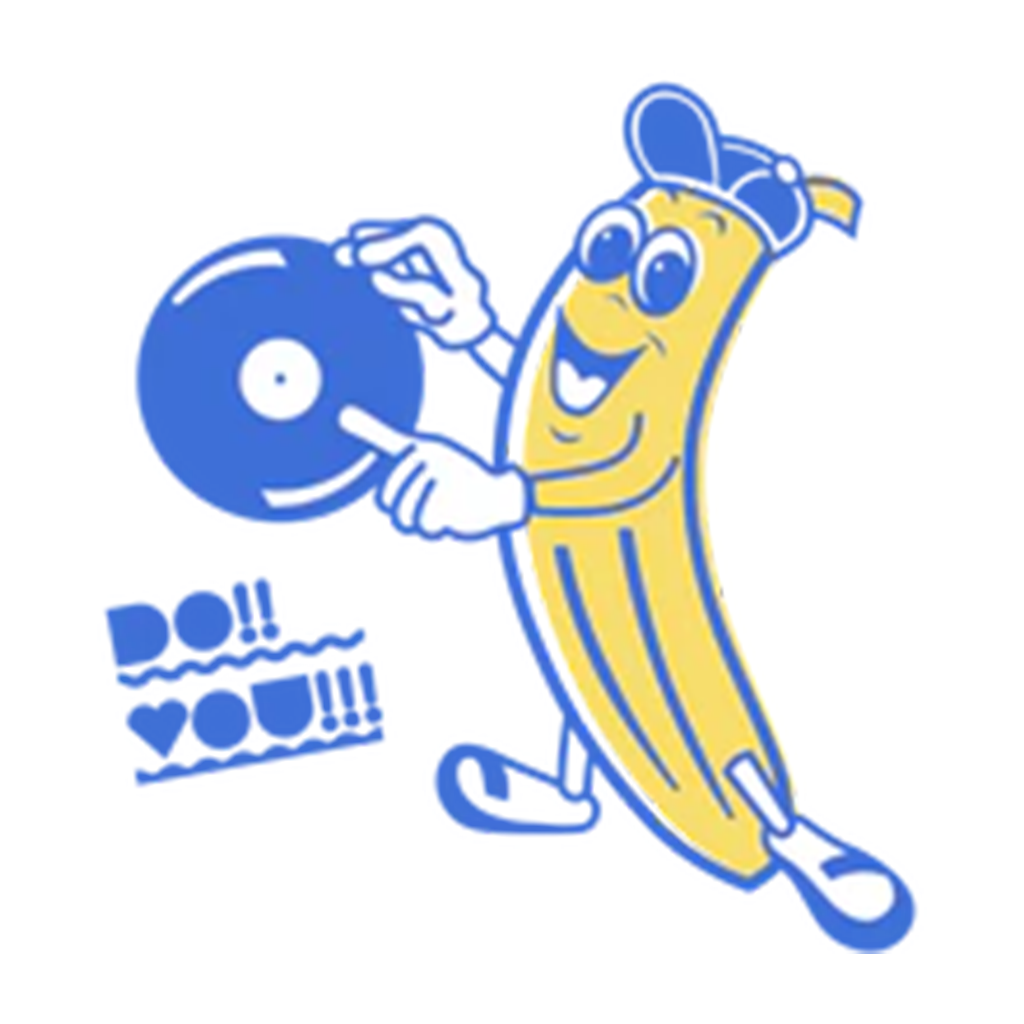
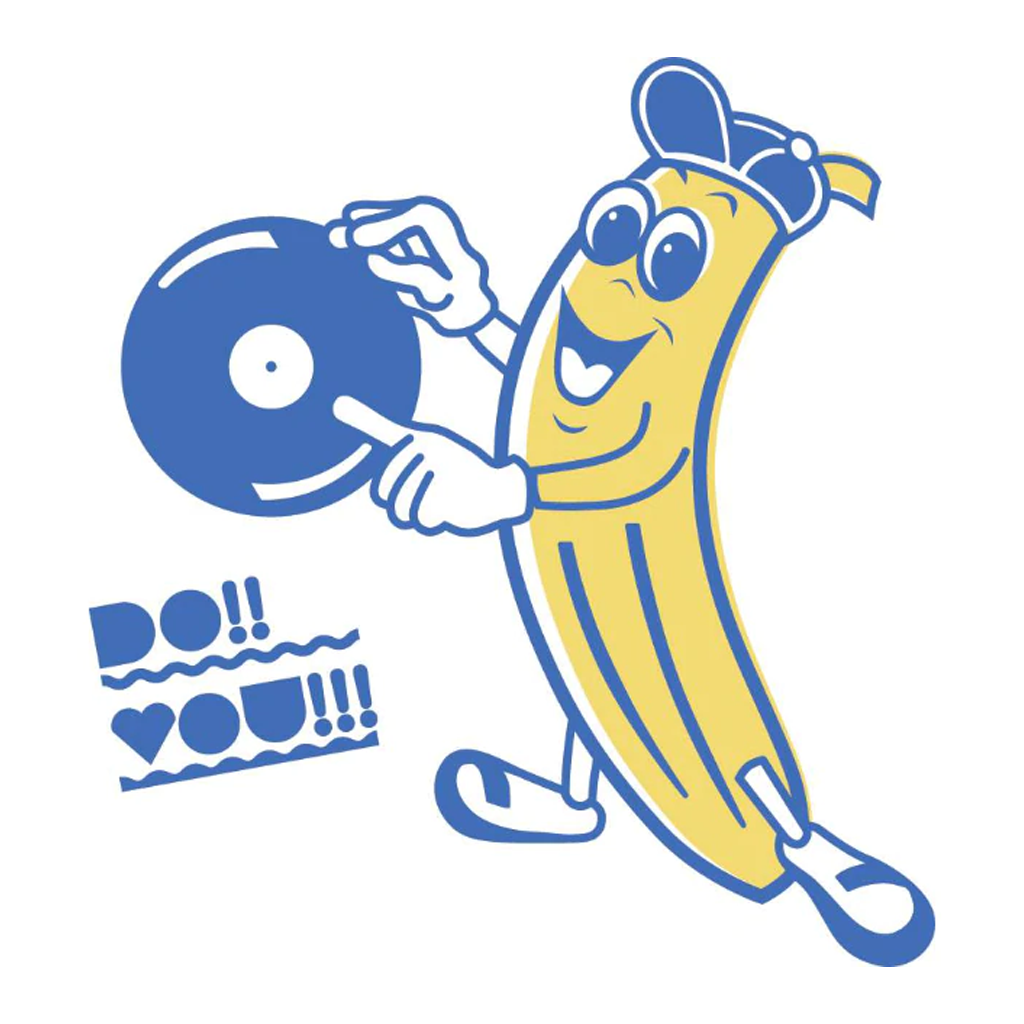
MoreScreen added, optimised assets added

Changed region(s): [[0.0938, 0.0312, 0.9375, 0.9688], [0.0625, 0.5625, 0.375, 0.7812]]

diff --git a/src/screens/MoreScreen.tsx b/src/screens/MoreScreen.tsx
@@ -1,0 +1,41 @@
+import React from 'react'
+import { Linking } from 'react-native'
+import { RootTabScreenProps } from '../../types'
+import { Container } from '../components/Container/Container'
+import { Home } from '../components/Home/Home'
+import { Text } from '../components/Themed'
+
+export default function MoreScreen({ navigation }: RootTabScreenProps<'More'>) {
+  return (
+    <Home>
+      <Container>
+        <Text
+          style={{
+            fontSize: 16,
+            fontFamily: 'Lato_900Black',
+            marginBottom: 20,
+          }}
+        >
+          Credits
+        </Text>
+        <Text style={{ marginBottom: 10 }}>
+          - Out to Charlie Bones for giving us the{' '}
+          <Text style={{ fontStyle: 'italic' }}>perfect sound forever</Text> and
+          making the radio world a better place.
+        </Text>
+        <Text>
+          - Out to{' '}
+          <Text
+            style={{ textDecorationLine: 'underline' }}
+            onPress={() =>
+              Linking.openURL('https://github.com/Rassibassi/doyoutrackid')
+            }
+          >
+            Rassibassi X Erin Rimmer X jackhkmatthews
+          </Text>{' '}
+          for generating track IDs.
+        </Text>
+      </Container>
+    </Home>
+  )
+}

diff --git a/src/components/Player/Player.tsx b/src/components/Player/Player.tsx
@@ -14,6 +14,7 @@ import {
 import { PlayerIcons } from './Player.constants'
 import { Audio } from 'expo-av'
 import { LIVE_STREAM_URL } from '../../constants/Endpoints'
+import { View } from '../Themed'
 
 export const Player: React.FC<{ background: string }> = ({ background }) => {
   const dispatch = useDispatch()
@@ -87,15 +88,25 @@ export const Player: React.FC<{ background: string }> = ({ background }) => {
     >
       <TouchableHighlight underlayColor="transparent" onPress={onPress}>
         <ImageBackground
-          source={require('../../../assets/images/logo.webp')}
+          source={require('../../../assets/images/doyou.webp')}
           style={{
             width: '100%',
             height: '100%',
             display: 'flex',
+            position: 'relative',
             alignItems: 'center',
             justifyContent: 'center',
           }}
         >
+          <View
+            style={{
+              width: 50,
+              height: 50,
+              borderRadius: 50,
+              backgroundColor: 'white',
+              position: 'absolute',
+            }}
+          />
           <MaterialCommunityIcons
             name={PlayerIcons[status]}
             size={80}

diff --git a/src/navigation/index.tsx b/src/navigation/index.tsx
@@ -28,6 +28,7 @@ import {
   RootTabScreenProps,
 } from '../../types'
 import LinkingConfiguration from './LinkingConfiguration'
+import MoreScreen from '../screens/MoreScreen'
 
 export default function Navigation({
   colorScheme,
@@ -130,6 +131,18 @@ function BottomTabNavigator() {
           //     />
           //   </Pressable>
           // ),
+        })}
+      />
+      <BottomTab.Screen
+        name="More"
+        component={MoreScreen}
+        options={({ navigation }: RootTabScreenProps<'More'>) => ({
+          title: 'More',
+          tabBarStyle: { paddingVertical: 5 },
+          tabBarLabelStyle: { marginBottom: 6 },
+          tabBarIcon: ({ color }) => (
+            <TabBarIcon name="dots-horizontal" size={19} color={color} />
+          ),
         })}
       />
     </BottomTab.Navigator>

diff --git a/src/navigation/LinkingConfiguration.ts b/src/navigation/LinkingConfiguration.ts
@@ -25,6 +25,11 @@ const linking: LinkingOptions<RootStackParamList> = {
               TabTwoScreen: 'two',
             },
           },
+          More: {
+            screens: {
+              MoreScreen: 'more',
+            },
+          },
         },
       },
       Modal: 'modal',

diff --git a/types.tsx b/types.tsx
@@ -29,6 +29,7 @@ export type RootStackScreenProps<Screen extends keyof RootStackParamList> =
 export type RootTabParamList = {
   TabOne: undefined
   TabTwo: undefined
+  More: undefined
 }
 
 export type RootTabScreenProps<Screen extends keyof RootTabParamList> =
